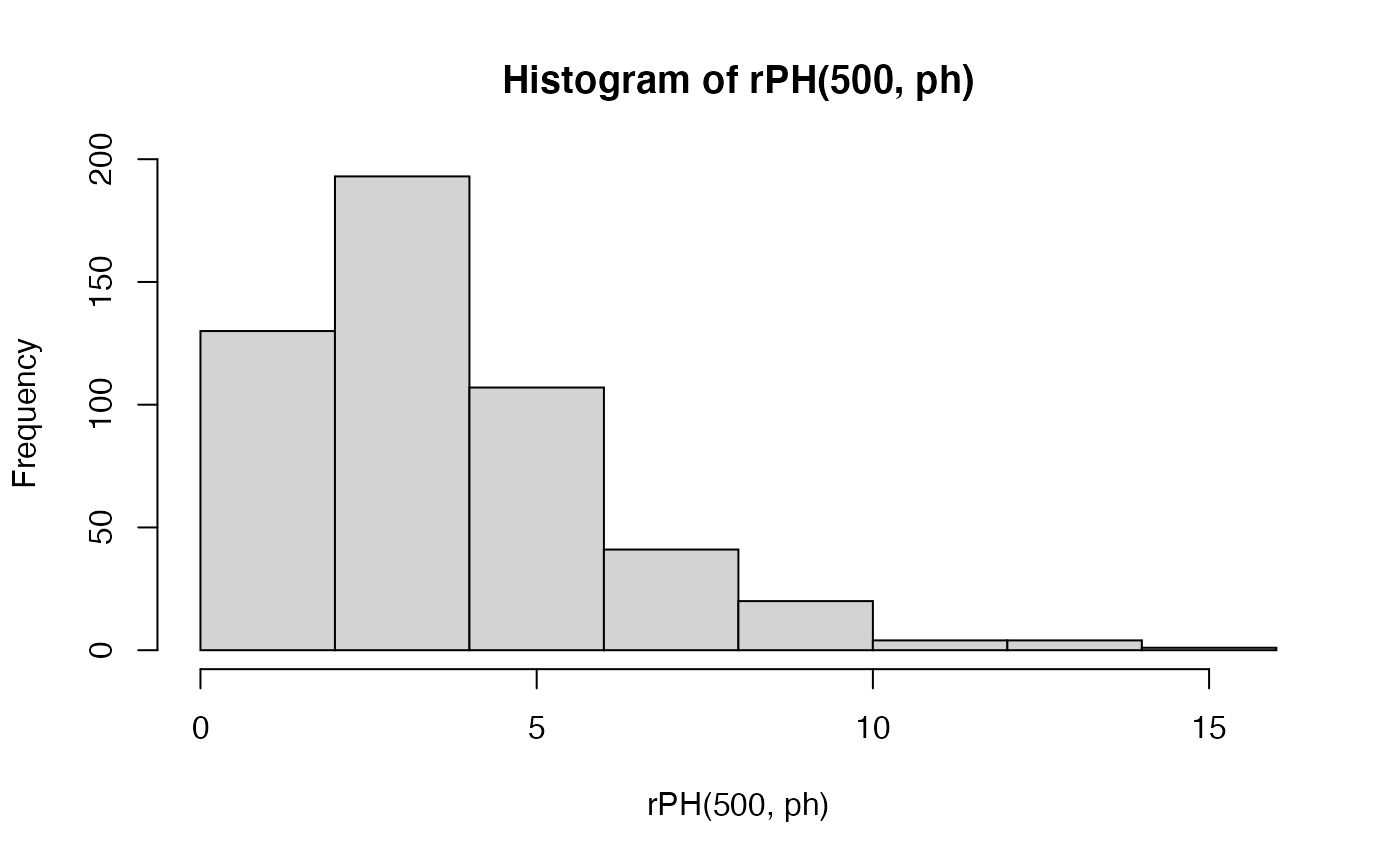
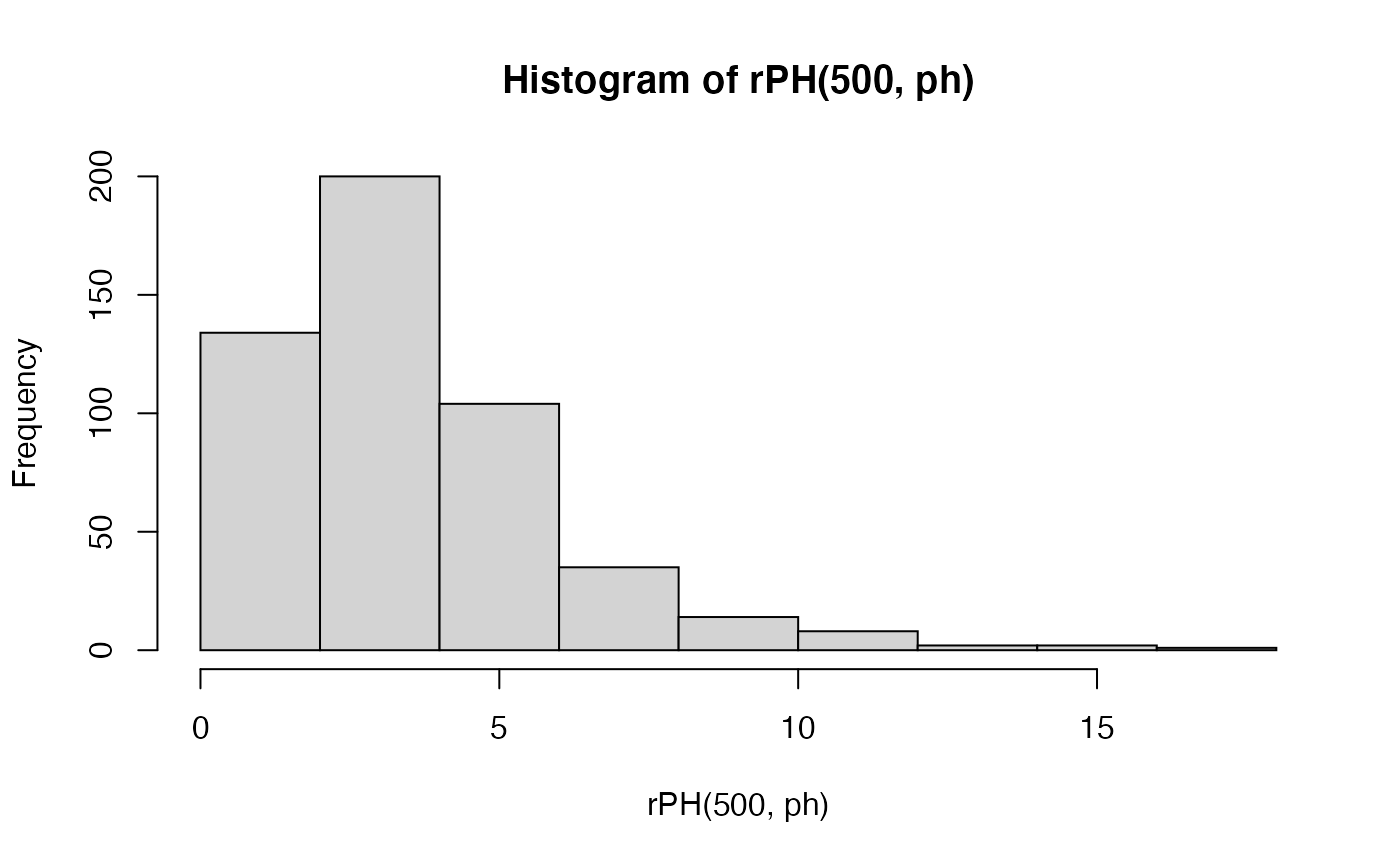
Built site for PhaseTypeR: 0.1.0@7f2b118

diff --git a/index.html b/index.html
@@ -111,32 +111,33 @@
 
 <span class="va">ph</span> <span class="op">&lt;-</span> <span class="fu"><a href="reference/generator_functions.html">PH</a></span><span class="op">(</span><span class="va">subintensity_matrix</span>, <span class="va">initial_probabilities</span><span class="op">)</span>
 
-<span class="fu"><a href="https://rdrr.io/r/base/summary.html">summary</a></span><span class="op">(</span><span class="va">ph</span><span class="op">)</span></code></pre></div>
-<pre><code>Subintensity matrix:
-     [,1] [,2] [,3]
-[1,] -1.5  1.5  0.0
-[2,]  0.0 -1.0  1.0
-[3,]  0.0  0.0 -0.5
-
-Initial probabilities:
-     [,1] [,2] [,3]
-[1,]  0.9  0.1    0
-
-Defect:
-[1] 0
-
-Mean: 3.6
-
-Variance: 5.44</code></pre>
+<span class="fu"><a href="https://rdrr.io/r/base/summary.html">summary</a></span><span class="op">(</span><span class="va">ph</span><span class="op">)</span>
+<span class="co">#&gt; </span>
+<span class="co">#&gt; Subintensity matrix:</span>
+<span class="co">#&gt;      [,1] [,2] [,3]</span>
+<span class="co">#&gt; [1,] -1.5  1.5  0.0</span>
+<span class="co">#&gt; [2,]  0.0 -1.0  1.0</span>
+<span class="co">#&gt; [3,]  0.0  0.0 -0.5</span>
+<span class="co">#&gt; </span>
+<span class="co">#&gt; Initial probabilities:</span>
+<span class="co">#&gt;      [,1] [,2] [,3]</span>
+<span class="co">#&gt; [1,]  0.9  0.1    0</span>
+<span class="co">#&gt; </span>
+<span class="co">#&gt; Defect:</span>
+<span class="co">#&gt; [1] 0</span>
+<span class="co">#&gt; </span>
+<span class="co">#&gt; Mean: 3.6</span>
+<span class="co">#&gt; </span>
+<span class="co">#&gt; Variance: 5.44</span></code></pre></div>
+<div class="sourceCode" id="cb3"><pre class="downlit sourceCode r">
+<code class="sourceCode R"><span class="fu"><a href="reference/PH_functions.html">dPH</a></span><span class="op">(</span><span class="fl">1</span><span class="op">:</span><span class="fl">5</span>, <span class="va">ph</span><span class="op">)</span>
+<span class="co">#&gt; [1] 0.1506327 0.2216989 0.1991321 0.1482987 0.1009037</span></code></pre></div>
 <div class="sourceCode" id="cb4"><pre class="downlit sourceCode r">
-<code class="sourceCode R"><span class="fu"><a href="reference/PH_functions.html">dPH</a></span><span class="op">(</span><span class="fl">1</span><span class="op">:</span><span class="fl">5</span>, <span class="va">ph</span><span class="op">)</span></code></pre></div>
-<pre><code>[1] 0.1506327 0.2216989 0.1991321 0.1482987 0.1009037</code></pre>
-<div class="sourceCode" id="cb6"><pre class="downlit sourceCode r">
-<code class="sourceCode R"><span class="fu"><a href="reference/PH_functions.html">pPH</a></span><span class="op">(</span><span class="fl">1</span><span class="op">:</span><span class="fl">5</span>, <span class="va">ph</span><span class="op">)</span></code></pre></div>
-<pre><code>[1] 0.07030638 0.26728005 0.48232823 0.65658059 0.78032198</code></pre>
-<div class="sourceCode" id="cb8"><pre class="downlit sourceCode r">
-<code class="sourceCode R"><span class="fu"><a href="reference/PH_functions.html">qPH</a></span><span class="op">(</span><span class="fu"><a href="https://rdrr.io/r/base/c.html">c</a></span><span class="op">(</span><span class="fl">0.25</span>, <span class="fl">0.5</span>, <span class="fl">0.75</span><span class="op">)</span>, <span class="va">ph</span><span class="op">)</span></code></pre></div>
-<pre><code>[1] 1.921862 3.089664 4.716588</code></pre>
+<code class="sourceCode R"><span class="fu"><a href="reference/PH_functions.html">pPH</a></span><span class="op">(</span><span class="fl">1</span><span class="op">:</span><span class="fl">5</span>, <span class="va">ph</span><span class="op">)</span>
+<span class="co">#&gt; [1] 0.07030638 0.26728005 0.48232823 0.65658059 0.78032198</span></code></pre></div>
+<div class="sourceCode" id="cb5"><pre class="downlit sourceCode r">
+<code class="sourceCode R"><span class="fu"><a href="reference/PH_functions.html">qPH</a></span><span class="op">(</span><span class="fu"><a href="https://rdrr.io/r/base/c.html">c</a></span><span class="op">(</span><span class="fl">0.25</span>, <span class="fl">0.5</span>, <span class="fl">0.75</span><span class="op">)</span>, <span class="va">ph</span><span class="op">)</span>
+<span class="co">#&gt; [1] 1.921862 3.089664 4.716588</span></code></pre></div>
 </div>
 <div id="learn-more" class="section level2">
 <h2 class="hasAnchor">
@@ -144,7 +145,8 @@ Variance: 5.44</code></pre>
 <p>You can check out the full functionality of <code>PhaseTypeR</code> and its application to population genetics in the following guides:</p>
 <ul>
 <li><a href="https://rivasiker.github.io/PhaseTypeR/articles/PhaseTypeR.html">Getting Started</a></li>
-<li><a href="https://rivasiker.github.io/PhaseTypeR/articles/pop_gen_iker.html">Using PhaseTypeR for population genetics</a></li>
+<li><a href="https://rivasiker.github.io/PhaseTypeR/articles/a2_pop_gen_iker.html">Using PhaseTypeR for population genetics</a></li>
+<li><a href="https://rivasiker.github.io/PhaseTypeR/articles/a3_phasetypeR_SFS.html">Using PhaseTypeR for the site frequency spectrum</a></li>
 </ul>
 </div>
 </div>

diff --git a/articles/PhaseTypeR.html b/articles/PhaseTypeR.html
@@ -316,8 +316,8 @@ F(u) = 1-\boldsymbol{\pi}e^{\boldsymbol{T}u}\boldsymbol{e}, \quad u\ge0.
 <div class="sourceCode" id="cb12"><pre class="downlit sourceCode r">
 <code class="sourceCode R"><span class="fu"><a href="https://rdrr.io/r/base/cat.html">cat</a></span><span class="op">(</span><span class="st">'10 random samples: \n'</span>, <span class="fu"><a href="../reference/PH_functions.html">rPH</a></span><span class="op">(</span><span class="fl">5</span>, <span class="va">ph</span><span class="op">)</span>, <span class="st">'\n'</span>, <span class="fu"><a href="../reference/PH_functions.html">rPH</a></span><span class="op">(</span><span class="fl">5</span>, <span class="va">ph</span><span class="op">)</span><span class="op">)</span>
 <span class="co">#&gt; 10 random samples: </span>
-<span class="co">#&gt;  0.8861636 6.76299 2.622156 2.379226 1.054463 </span>
-<span class="co">#&gt;  0.9183744 1.583746 6.672854 1.504638 0.9041597</span></code></pre></div>
+<span class="co">#&gt;  4.516516 1.759885 7.479083 3.14209 2.182303 </span>
+<span class="co">#&gt;  1.019499 2.865505 3.706718 1.562115 3.97887</span></code></pre></div>
 <p>Here is a histogram of 200 samples from the phase-type distribution:</p>
 <div class="sourceCode" id="cb13"><pre class="downlit sourceCode r">
 <code class="sourceCode R"><span class="fu"><a href="https://rdrr.io/r/graphics/hist.html">hist</a></span><span class="op">(</span><span class="fu"><a href="../reference/PH_functions.html">rPH</a></span><span class="op">(</span><span class="fl">500</span>, <span class="va">ph</span><span class="op">)</span>, breaks <span class="op">=</span> <span class="fl">10</span><span class="op">)</span></code></pre></div>
@@ -791,7 +791,7 @@ Y_j = \sum_{m=0}^{\tau-1} r_j(X_m), \quad j=1,\ldots,n.
 <p>Bladt, Mogens, and Bo Friis Nielsen. 2017. <em>Matrix-Exponential Distributions in Applied Probability</em>. Vol. 81. <a href="https://doi.org/10.1007/978-1-4939-7049-0">https://doi.org/10.1007/978-1-4939-7049-0</a>.</p>
 </div>
 <div id="ref-Navarro2019">
-<p>Navarro, Campillo. 2019. “Order Statistics and Multivariate discrete phase-type distributions Azucena Campillo Navarro.” PhD thesis. <a href="https://doi.org/ISSN%200909-3192">https://doi.org/ISSN 0909-3192</a>.</p>
+<p>Navarro, Campillo. 2019. “Order Statistics and Multivariate discrete phase-type distributions.” PhD thesis. <a href="https://orbit.dtu.dk/en/publications/order-statistics-and-multivariate-discrete-phase-type-distributio">https://orbit.dtu.dk/en/publications/order-statistics-and-multivariate-discrete-phase-type-distributio</a>.</p>
 </div>
 </div>
 </div>
